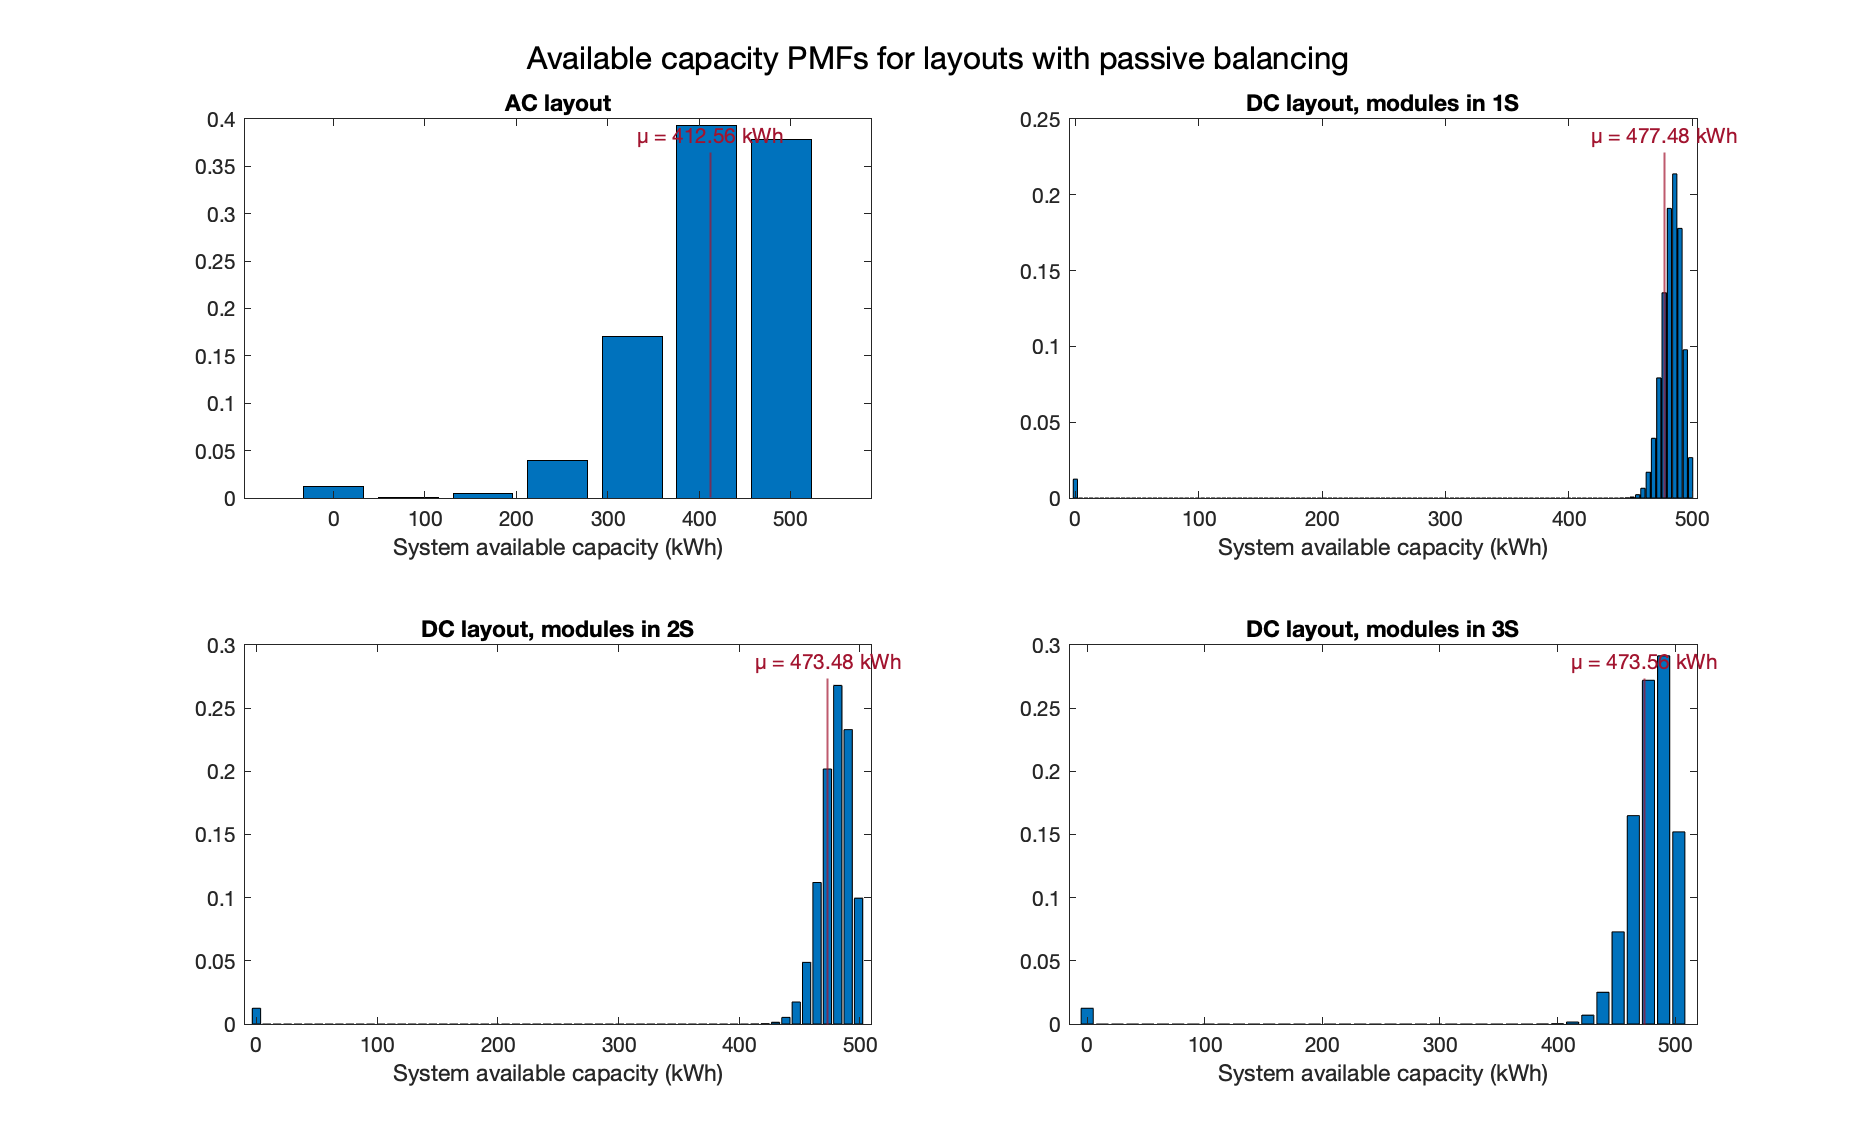
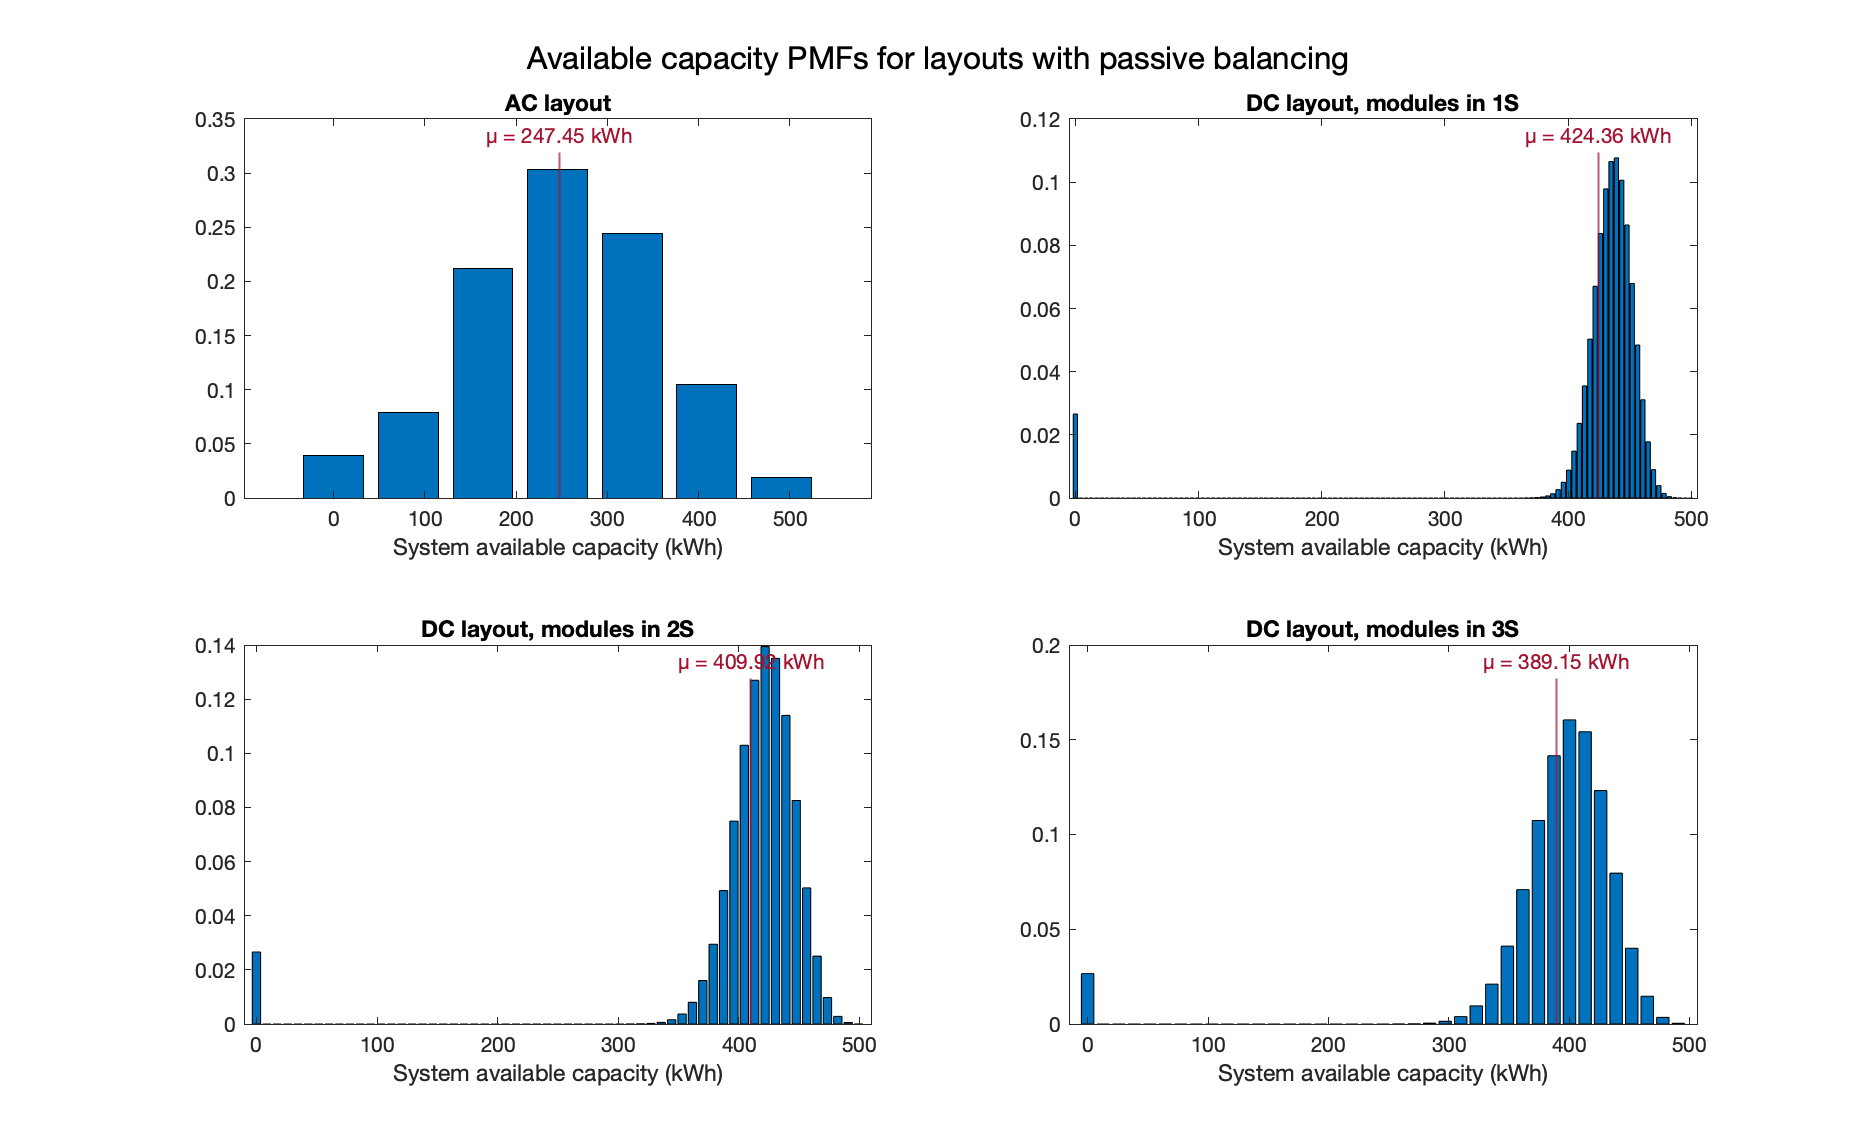
added functions to compute nModSer, nModPar, kWhPack for different layouts given chemistry

diff --git a/reliability_calcs_v2.m b/reliability_calcs_v2.m
@@ -1,20 +1,33 @@
 close all
 clear
 
+kWhModule_desired = 3.5;
+vModule_desired = 50;
+kWhPack_desired = 500;
+vPack_desired_AC = 1000;
+vCell = [2.5 3.65];
+AhBal = 100;
+
+[nBlockSer, kWhModule, nModSer_AC, nModPar_AC, kWhPack_AC] = get_ac_layout(vCell, ...
+    AhBal, kWhModule_desired, kWhPack_desired, vModule_desired, vPack_desired_AC);
+
+
 % Defining values failure rates of components, in failures per hour, based
 % on MIL-HDBK-217Plus
 scale = 1e6;
-lambdaC = 0.001579/scale;
-lambdaDiode_Schottky = 0.001965/scale;
-lambdaDiode_Zener = 0.003966/scale;
-lambdaMosfet = 0.01784/scale;
-lambdaL= 0.00000517/scale;
-lambdaXfmr = 0.075132/scale;
-lambdaIgbt = 0.015855/scale;
-lambdaR = 0.00264/scale;
+lambdaC = 0.001132136/scale;
+lambdaDiode_Schottky = 0.004118174/scale;
+lambdaDiode_Zener = 0.003242275/scale;
+lambdaMosfet = 0.052231353/scale;
+lambdaL= 6.17772e-06/scale;
+lambdaXfmr = 0.074071302/scale;
+lambdaIgbt = 0.015720489/scale;
+lambdaR = 0.002599279/scale;
 
-lifetime = 96000; % estimated lifetime of system, based on quarterly report
-balanceTime = 0.2*lifetime;
+opHrs = 96000;
+D = 0.5;
+calHrs = opHrs/D; % estimated lifetime of system, based on quarterly report
+balanceTime = 0.2*calHrs;
 
 nCapDC = 2; % number of capacitors in DC-DC converter
 nDiodeDC = 8;
@@ -26,9 +39,9 @@ lambdaDC = nCapDC*lambdaC + nDiodeDC*lambdaDiode_Schottky + nMosfetDC*lambdaMosf
     nInductorDC*lambdaL + nXfmrDC*lambdaXfmr;
 lambdaDC_half_bridge = nCapDC*lambdaC + nDiodeDC/2*lambdaDiode_Schottky + nMosfetDC/2*lambdaMosfet + ...
     nInductorDC*lambdaL + nXfmrDC*lambdaXfmr;
-Rconv = exp(-lambdaDC*lifetime); % reliability estimate for DC-DC onverter at time 'lifetime'
+Rconv = exp(-lambdaDC*calHrs); % reliability estimate for DC-DC onverter at time 'lifetime'
 Rab = exp(-lambdaDC_half_bridge*balanceTime);
-%Rab = exp(-lambdaDC*balanceTime);
+%Rab = exp(-lambdaDC*balanceTime);  
 
 nCapAC = 5; % number of capacitors in DC-AC inverter
 nDiodeAC = 6;
@@ -38,7 +51,7 @@ nResistorAC = 6;
 
 lambdaAC = nCapAC*lambdaC + nDiodeAC*lambdaDiode_Schottky + nIgbtAC*lambdaIgbt + ...
     nInductorAC*lambdaL + nResistorAC*lambdaR;
-Rinv = exp(-lambdaAC*lifetime); % reliability estimate for DC-AC onverter at time 'lifetime'
+Rinv = exp(-lambdaAC*calHrs); % reliability estimate for DC-AC onverter at time 'lifetime'
 
 nCapPB = 1; % number of capacitors in passive balancing system
 nDiodePB = 1;
@@ -51,28 +64,29 @@ Rpb = exp(-lambdaPB*balanceTime);
 
 Ppb = [1-Rpb Rpb];
 Pinv = [1-Rinv Rinv];
-energyModule = 4300;
-nBlockSer = 14;
-nModSer_AC = 19;
-nModPar_AC = 6;
+% kWhModule = 4300;
+% nBlockSer = 14;
+% nModSer_AC = 19;
+% nModPar_AC = 6;
 %% 1. First we will consider 4 layouts, all with passive balancing
 % 1.a) AC layout
-[XacPB, PacPB, energyPackAC] = get_ac_sys_dist(energyModule, nBlockSer, nModSer_AC, nModPar_AC, Rpb, Rinv);
-
+[XacPB, PacPB] = get_ac_sys_dist(kWhModule, kWhPack_AC, nBlockSer, nModSer_AC, nModPar_AC, Rpb, Rinv);
+pause
 % 1.b) DC layout with 1 module per DC-DC converter
 nModSer_DC1 = 1;
-nModPar_DC1 = 116;
-[XdcPB1, PdcPB1, energyPackDC1] = get_dc_sys_dist(energyModule, nBlockSer, nModSer_DC1, nModPar_DC1, Rpb, Rconv, Rinv);
+%nModPar_DC1 = 116;
+[nModPar_DC1, kWhPack_DC1] = get_dc_layout(kWhModule, nModSer_DC1, kWhPack_desired);
+[XdcPB1, PdcPB1] = get_dc_sys_dist(kWhModule, kWhPack_DC1, nBlockSer, nModSer_DC1, nModPar_DC1, Rpb, Rconv, Rinv);
 
 % 1.c) DC layout with 2 modules in series per DC-DC converter
 nModSer_DC2 = 2;
-nModPar_DC2 = nModPar_DC1 / nModSer_DC2;
-[XdcPB2, PdcPB2, energyPackDC2] = get_dc_sys_dist(energyModule, nBlockSer, nModSer_DC2, nModPar_DC2, Rpb, Rconv, Rinv);
+[nModPar_DC2, kWhPack_DC2] = get_dc_layout(kWhModule, nModSer_DC2, kWhPack_desired);
+[XdcPB2, PdcPB2] = get_dc_sys_dist(kWhModule, kWhPack_DC2, nBlockSer, nModSer_DC2, nModPar_DC2, Rpb, Rconv, Rinv);
 
 % 1.d) DC layout with 3 modules in series per DC-DC converter
 nModSer_DC3 = 3;
-nModPar_DC3 = ceil(nModPar_DC1 / nModSer_DC3);
-[XdcPB3, PdcPB3, energyPackDC3] = get_dc_sys_dist(energyModule, nBlockSer, nModSer_DC3, nModPar_DC3, Rpb, Rconv, Rinv);
+[nModPar_DC3, kWhPack_DC3] = get_dc_layout(kWhModule, nModSer_DC3, kWhPack_desired);
+[XdcPB3, PdcPB3] = get_dc_sys_dist(kWhModule, kWhPack_DC3, nBlockSer, nModSer_DC3, nModPar_DC3, Rpb, Rconv, Rinv);
 
 expectedOutputAC_PB = sum(XacPB .* PacPB);
 expectedOutputDC_PB1 = sum(XdcPB1 .* PdcPB1);
@@ -83,63 +97,63 @@ f = figure;
 f.Position = [1441 206 900 550];
 %sgtitle('Available capacity PMFs for layouts with passive balancing')
 subplot(2,2,1)
-bar(XacPB/1000, PacPB);
+bar(XacPB, PacPB);
 title('AC layout')
-xline(expectedOutputAC_PB/1000, 'Color','#A2142F', 'Label',sprintf('μ = %0.2f kWh', expectedOutputAC_PB/1000),'LineWidth',1, 'LabelOrientation', 'horizontal','LabelHorizontalAlignment', 'center')
+xline(expectedOutputAC_PB, 'Color','#A2142F', 'Label',sprintf('μ = %0.2f kWh', expectedOutputAC_PB),'LineWidth',1, 'LabelOrientation', 'horizontal','LabelHorizontalAlignment', 'center')
 xlabel('System available capacity (kWh)')
 
 subplot(2,2,2)
-bar(XdcPB1/1000, PdcPB1);
+bar(XdcPB1, PdcPB1);
 title('DC layout, modules in 1S')
-xline(expectedOutputDC_PB1/1000, 'Color','#A2142F', 'Label',sprintf('μ = %0.2f kWh', expectedOutputDC_PB1/1000),'LineWidth',1, 'LabelOrientation', 'horizontal','LabelHorizontalAlignment', 'center')
+xline(expectedOutputDC_PB1, 'Color','#A2142F', 'Label',sprintf('μ = %0.2f kWh', expectedOutputDC_PB1),'LineWidth',1, 'LabelOrientation', 'horizontal','LabelHorizontalAlignment', 'center')
 xlabel('System available capacity (kWh)')
 
 subplot(2,2,3)
-bar(XdcPB2/1000, PdcPB2);
+bar(XdcPB2, PdcPB2);
 title('DC layout, modules in 2S')
-xline(expectedOutputDC_PB2/1000, 'Color','#A2142F', 'Label',sprintf('μ = %0.2f kWh', expectedOutputDC_PB2/1000),'LineWidth',1, 'LabelOrientation', 'horizontal','LabelHorizontalAlignment', 'center')
+xline(expectedOutputDC_PB2, 'Color','#A2142F', 'Label',sprintf('μ = %0.2f kWh', expectedOutputDC_PB2),'LineWidth',1, 'LabelOrientation', 'horizontal','LabelHorizontalAlignment', 'center')
 xlabel('System available capacity (kWh)')
 
 subplot(2,2,4)
-bar(XdcPB3/1000, PdcPB3);
+bar(XdcPB3, PdcPB3);
 title('DC layout, modules in 3S')
-xline(expectedOutputDC_PB3/1000, 'Color','#A2142F', 'Label',sprintf('μ = %0.2f kWh', expectedOutputDC_PB3/1000),'LineWidth',1, 'LabelOrientation', 'horizontal','LabelHorizontalAlignment', 'center')
+xline(expectedOutputDC_PB3, 'Color','#A2142F', 'Label',sprintf('μ = %0.2f kWh', expectedOutputDC_PB3),'LineWidth',1, 'LabelOrientation', 'horizontal','LabelHorizontalAlignment', 'center')
 xlabel('System available capacity (kWh)')
 sgtitle('Available capacity PMFs for layouts with passive balancing')
 saveas(f, 'PBhistos.png')
 
-w = 400000;
+w = 400;
 acceptabilityPB = [compute_acceptability(XacPB, PacPB, w); ...
     compute_acceptability(XdcPB1, PdcPB1, w); ...
     compute_acceptability(XdcPB2, PdcPB2, w); ...
     compute_acceptability(XdcPB3, PdcPB3, w)];
 
 expectedOutputPB = [expectedOutputAC_PB; expectedOutputDC_PB1; expectedOutputDC_PB2; expectedOutputDC_PB3];
- energyPack = [energyPackAC; energyPackDC1; energyPackDC2; energyPackDC3];
-expectedOutputPB_pct = round(expectedOutputPB ./ energyPack .* 100, 1);
+ kWhPack = [kWhPack_AC; kWhPack_DC1; kWhPack_DC2; kWhPack_DC3];
+expectedOutputPB_pct = round(expectedOutputPB ./ kWhPack .* 100, 1);
 
 title1 = "Table 1. Layout comparisons for passive balancing circuits";
-Tpb = table(expectedOutputPB./1000, expectedOutputPB_pct, acceptabilityPB);
-Tpb.Properties.RowNames = [sprintf("AC layout, %0.1f kWh", energyPack(1)/1000); ...
-    sprintf("DC layout, 1S, %0.1f kWh", energyPack(2)/1000); ...
-    sprintf("DC layout, 2S, %0.1f kWh", energyPack(3)/1000); ...
-    sprintf("DC layout, 3S, %0.1f kWh", energyPack(4)/1000)];
-Tpb.Properties.VariableNames = ["Expected output (kWh, BOL)", "Expected output (% of max, BOL)", sprintf("Availability (%%), w = %0.0f kWh", w/1000)];
+Tpb = table(expectedOutputPB, expectedOutputPB_pct, acceptabilityPB);
+Tpb.Properties.RowNames = [sprintf("AC layout, %0.1f kWh", kWhPack(1)); ...
+    sprintf("DC layout, 1S, %0.1f kWh", kWhPack(2)); ...
+    sprintf("DC layout, 2S, %0.1f kWh", kWhPack(3)); ...
+    sprintf("DC layout, 3S, %0.1f kWh", kWhPack(4))];
+Tpb.Properties.VariableNames = ["Expected output (kWh, BOL)", "Expected output (% of max, BOL)", sprintf("Availability (%%), w = %0.0f kWh", w)];
 disp(title1)
 disp(Tpb)
 
 %% 2. Consider same 4 layouts, where each uses active balancing
 % 2.a) AC layout
-[XacAB, PacAB, ~] = get_ac_sys_dist(energyModule, nBlockSer, nModSer_AC, nModPar_AC, Rab, Rinv);
+[XacAB, PacAB] = get_ac_sys_dist(kWhModule, kWhPack_AC, nBlockSer, nModSer_AC, nModPar_AC, Rab, Rinv);
 
 % 2.b) DC layout, modules in 1S
-[XdcAB1, PdcAB1, ~] = get_dc_sys_dist(energyModule, nBlockSer, nModSer_DC1, nModPar_DC1, Rab, Rconv, Rinv);
+[XdcAB1, PdcAB1] = get_dc_sys_dist(kWhModule, kWhPack_DC1, nBlockSer, nModSer_DC1, nModPar_DC1, Rab, Rconv, Rinv);
 
 % 2.c) DC layout, modules in 2S
-[XdcAB2, PdcAB2, ~] = get_dc_sys_dist(energyModule, nBlockSer, nModSer_DC2, nModPar_DC2, Rab, Rconv, Rinv);
+[XdcAB2, PdcAB2] = get_dc_sys_dist(kWhModule, kWhPack_DC2, nBlockSer, nModSer_DC2, nModPar_DC2, Rab, Rconv, Rinv);
 
 % 2.d) DC layout, modules in 3S
-[XdcAB3, PdcAB3, ~] = get_dc_sys_dist(energyModule, nBlockSer, nModSer_DC3, nModPar_DC3, Rab, Rconv, Rinv);
+[XdcAB3, PdcAB3] = get_dc_sys_dist(kWhModule, kWhPack_DC3, nBlockSer, nModSer_DC3, nModPar_DC3, Rab, Rconv, Rinv);
 
 expectedOutputAC_AB = sum(XacAB .* PacAB);
 expectedOutputDC_AB1 = sum(XdcAB1 .* PdcAB1);
@@ -149,48 +163,48 @@ expectedOutputDC_AB3 = sum(XdcAB3 .* PdcAB3);
 f1 = figure;
 f1.Position = [1441 206 900 550];
 subplot(2,2,1)
-bar(XacAB/1000, PacAB);
+bar(XacAB, PacAB);
 title('AC layout')
-xline(expectedOutputAC_AB/1000, 'Color','#A2142F', 'Label',sprintf('μ = %0.2f kWh', expectedOutputAC_AB/1000),'LineWidth',1, 'LabelOrientation', 'horizontal','LabelHorizontalAlignment', 'center')
+xline(expectedOutputAC_AB, 'Color','#A2142F', 'Label',sprintf('μ = %0.2f kWh', expectedOutputAC_AB),'LineWidth',1, 'LabelOrientation', 'horizontal','LabelHorizontalAlignment', 'center')
 xlabel('System available capacity (kWh)')
 
 subplot(2,2,2)
-bar(XdcAB1/1000, PdcAB1);
+bar(XdcAB1, PdcAB1);
 title('DC layout, modules in 1S')
-xline(expectedOutputDC_AB1/1000, 'Color','#A2142F', 'Label',sprintf('μ = %0.2f kWh', expectedOutputDC_AB1/1000),'LineWidth', 1, 'LabelOrientation', 'horizontal','LabelHorizontalAlignment', 'center')
+xline(expectedOutputDC_AB1, 'Color','#A2142F', 'Label',sprintf('μ = %0.2f kWh', expectedOutputDC_AB1),'LineWidth', 1, 'LabelOrientation', 'horizontal','LabelHorizontalAlignment', 'center')
 xlabel('System available capacity (kWh)')
 
 subplot(2,2,3)
-bar(XdcAB2/1000, PdcAB2);
+bar(XdcAB2, PdcAB2);
 title('DC layout, modules in 2S')
-xline(expectedOutputDC_AB2/1000, 'Color','#A2142F', 'Label',sprintf('μ = %0.2f kWh', expectedOutputDC_AB2/1000),'LineWidth', 1, 'LabelOrientation', 'horizontal','LabelHorizontalAlignment', 'center')
+xline(expectedOutputDC_AB2, 'Color','#A2142F', 'Label',sprintf('μ = %0.2f kWh', expectedOutputDC_AB2),'LineWidth', 1, 'LabelOrientation', 'horizontal','LabelHorizontalAlignment', 'center')
 xlabel('System available capacity (kWh)')
 
 subplot(2,2,4)
-bar(XdcAB3/1000, PdcAB3);
+bar(XdcAB3, PdcAB3);
 title('DC layout, modules in 3S')
-xline(expectedOutputDC_AB3/1000, 'Color','#A2142F', 'Label',sprintf('μ = %0.2f kWh', expectedOutputDC_AB3/1000),'LineWidth', 1, 'LabelOrientation', 'horizontal','LabelHorizontalAlignment', 'center')
+xline(expectedOutputDC_AB3, 'Color','#A2142F', 'Label',sprintf('μ = %0.2f kWh', expectedOutputDC_AB3),'LineWidth', 1, 'LabelOrientation', 'horizontal','LabelHorizontalAlignment', 'center')
 xlabel('System available capacity (kWh)')
 sgtitle('Available capacity PMFs for layouts with active balancing, half bridges')
 saveas(f1, 'ABhistos_HB.png')
 
-w = 400000;
+w = 400;
 acceptabilityAB = [compute_acceptability(XacAB, PacAB, w); ...
     compute_acceptability(XdcAB1, PdcAB1, w); ...
     compute_acceptability(XdcAB2, PdcAB2, w); ...  
     compute_acceptability(XdcAB3, PdcAB3, w)];
 
 expectedOutputAB = [expectedOutputAC_AB; expectedOutputDC_AB1; expectedOutputDC_AB2; expectedOutputDC_AB3];
-expectedOutputAB_pct = round(expectedOutputAB ./ energyPack .* 100, 1);
+expectedOutputAB_pct = round(expectedOutputAB ./ kWhPack .* 100, 1);
 
-title2 = "Table 2. Layout comparisons for active balancing circuits with full bridges";
+title2 = "Table 2. Layout comparisons for active balancing circuits with half bridges";
 %title3 = "Table 3. Layout comparisons for active balancing circuits with half-bridges";
 Tab = table(expectedOutputAB./1000, expectedOutputAB_pct, acceptabilityAB);
-Tab.Properties.RowNames = [sprintf("AC layout, %0.1f kWh", energyPack(1)/1000); ...
-    sprintf("DC layout, 1S, %0.1f kWh", energyPack(2)/1000); ...
-    sprintf("DC layout, 2S, %0.1f kWh", energyPack(3)/1000); ...
-    sprintf("DC layout, 3S, %0.1f kWh", energyPack(4)/1000)];
-Tab.Properties.VariableNames = ["Expected output (kWh, BOL)", "Expected output (% of max, BOL)", sprintf("Availability (%%), w = %0.0f kWh", w/1000)];
+Tab.Properties.RowNames = [sprintf("AC layout, %0.1f kWh", kWhPack(1)); ...
+    sprintf("DC layout, 1S, %0.1f kWh", kWhPack(2)); ...
+    sprintf("DC layout, 2S, %0.1f kWh", kWhPack(3)); ...
+    sprintf("DC layout, 3S, %0.1f kWh", kWhPack(4))];
+Tab.Properties.VariableNames = ["Expected output (kWh, BOL)", "Expected output (% of max, BOL)", sprintf("Availability (%%), w = %0.0f kWh", w)];
 %disp(title3)
 disp(title2)
 disp(Tab)

diff --git a/get_dc_sys_dist.m b/get_dc_sys_dist.m
@@ -1,22 +1,22 @@
-function [X, P, energyPack] = get_dc_sys_dist(energyModule, nBlockSer, ...
+function [X, P] = get_dc_sys_dist(kWhModule, kWhPack, nBlockSer, ...
     nModSer, nModPar, Rbal, Rconv, Rinv)
 
-energyPack = energyModule * nModSer * nModPar;
+%energyPack = energyModule * nModSer * nModPar;
 
 Pbal = [1-Rbal Rbal];
-Xbal = nModSer * [0 energyModule];
+Xbal = nModSer * [0 kWhModule];
 
 [Xmod, Pmod] = n_same_system_series(nBlockSer, Xbal, Pbal);
 [Xstring, Pstring] = n_same_system_series(nModSer, Xmod, Pmod);
 
 Pconv = [1-Rconv Rconv];
-Xconv = nModSer * [0 energyModule];
+Xconv = nModSer * [0 kWhModule];
 [Xpod, Ppod] = diff_systems_series(Xstring, Pstring, Xconv, Pconv);
 
 [Xpack, Ppack] = n_same_system_parallel(nModPar, Xpod, Ppod);
 
 Pinv = [1-Rinv Rinv];
-Xinv = [0 energyPack];
+Xinv = [0 kWhPack];
 
 [X, P] = diff_systems_series(Xpack, Ppack, Xinv, Pinv);
 

diff --git a/get_ac_sys_dist.m b/get_ac_sys_dist.m
@@ -1,17 +1,17 @@
-function [X, P, energyPack] = get_ac_sys_dist(energyModule, nBlockSer, ...
+function [X, P] = get_ac_sys_dist(kWhModule, kWhPack, nBlockSer, ...
     nModSer, nModPar, Rbal, Rinv)
     
-energyPack = energyModule * nModSer * nModPar;
+%energyPack = energyModule * nModSer * nModPar;
 
 Pbal = [1-Rbal Rbal];
-Xbal = nModSer * [0 energyModule];
+Xbal = nModSer * [0 kWhModule];
 
 [Xmod, Pmod] = n_same_system_series(nBlockSer, Xbal, Pbal);
 [Xstring, Pstring] = n_same_system_series(nModSer, Xmod, Pmod);
 [Xpack, Ppack] = n_same_system_parallel(nModPar, Xstring, Pstring);
 
 Pinv = [1-Rinv Rinv];
-Xinv = [0 energyPack];
+Xinv = [0 kWhPack];
 [X, P] = diff_systems_series(Xinv, Pinv, Xpack, Ppack);
 
 end

diff --git a/get_ac_layout.m b/get_ac_layout.m
@@ -1,0 +1,11 @@
+function [nBlockSer, kWhModule_actual, nModSer, nModPar, kWhPack_actual] = ...
+    get_ac_layout(vCell, AhBal, kWhModule_desired, kWhPack_desired, vModule_desired, vPack_desired)
+
+nBlockSer = ceil(vModule_desired/max(vCell));
+kWhModule_actual = nBlockSer * mean(vCell) * AhBal/1000;
+
+nModSer = floor(vPack_desired/(nBlockSer * max(vCell)));
+nModPar = floor(kWhPack_desired/(nModSer*kWhModule_actual));
+kWhPack_actual = kWhModule_actual * nModSer * nModPar;
+
+end

diff --git a/get_dc_layout.m b/get_dc_layout.m
@@ -1,0 +1,6 @@
+function [nModPar, kWhPack_actual] = get_dc_layout(kWhModule, nModSer, kWhPack_desired)
+
+nModPar = floor(kWhPack_desired/(kWhModule*nModSer));
+kWhPack_actual = kWhModule * nModSer * nModPar;
+
+end
